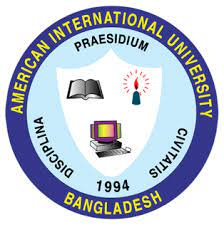
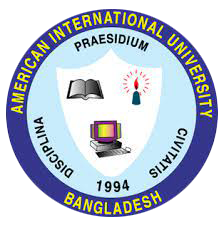
Version 1.2

diff --git a/index.html b/index.html
@@ -17,10 +17,13 @@
     <link rel="stylesheet" href="vendor/font-awesome_5.15.1_css_all.min.css">
     <!-- Custom CSS -->
     <link rel="stylesheet" href="css/style.css">
+    <!-- Scroll Reveal -->
     <script src="vendor/unpkg.com_scrollreveal@4.0.9_dist_scrollreveal.js"></script>
+    <!-- Google Recaptcha -->
+    <script src="https://www.google.com/recaptcha/api.js" async defer></script>
 </head>
 
-<body onload="generateCaptcha();">
+<body>
     <!-- Container with a specific width -->
     <div class="container">
 
@@ -68,7 +71,8 @@
                         <h3 class="scroll-reveal">Hello, It's me,</h3>
                         <h1 class="scroll-reveal"><span>Showyeab Ahmed</span></h1>
                         <h3 class="scroll-reveal">I'm a <span class="auto"></span></h3>
-                        <p class="scroll-reveal">I've had a profound passion for technology from the very beginning, which drove me to
+                        <p class="scroll-reveal">I've had a profound passion for technology from the very beginning,
+                            which drove me to
                             successfully earn my B.Sc. in Computer Science and Engineering from American International
                             University Bangladesh. Over the course of my professional journey, I've actively engaged in
                             various projects to refine and enhance my existing skill set. Moreover, I consistently seek
@@ -332,7 +336,8 @@
                         <img class="project-img scroll-reveal" src="media/digiCVProject.png" alt="Project 1">
                         <div class="project-text scroll-reveal">
                             <h4 class="scroll-reveal">DigiCV</h4>
-                            <p class="scroll-reveal">This project incorporates clean architecture, ASP.NET, worker services, and various other
+                            <p class="scroll-reveal">This project incorporates clean architecture, ASP.NET, worker
+                                services, and various other
                                 technologies.</p>
                             <a href="#" class="project-button scroll-reveal" target="_blank">View</a>
                         </div>
@@ -342,7 +347,8 @@
                         <img class="project-img scroll-reveal" src="media/bookishProject.png" alt="Project 2">
                         <div class="project-text scroll-reveal">
                             <h4 class="scroll-reveal">Bookish</h4>
-                            <p class="scroll-reveal">This project was undertaken at university, and it involved the use of the .NET Framework.
+                            <p class="scroll-reveal">This project was undertaken at university, and it involved the use
+                                of the .NET Framework.
                             </p>
                             <a href="https://github.com/msashoyeb/Bookish" class="project-button scroll-reveal"
                                 target="_blank">View</a>
@@ -352,10 +358,11 @@
                         <img class="project-img scroll-reveal" src="media/rentcarProject.png" alt="Project 3">
                         <div class="project-text scroll-reveal">
                             <h4 class="scroll-reveal">Vehical Rental Application</h4>
-                            <p class="scroll-reveal">This project was also undertaken at university, and it involved the use of PHP, Ajax,
+                            <p class="scroll-reveal">This project was also undertaken at university, and it involved the
+                                use of PHP, Ajax,
                                 JQuery, Json, XML.</p>
-                            <a href="https://github.com/msashoyeb/Vehicle-Rental-Application-" class="project-button scroll-reveal"
-                                target="_blank">View</a>
+                            <a href="https://github.com/msashoyeb/Vehicle-Rental-Application-"
+                                class="project-button scroll-reveal" target="_blank">View</a>
                         </div>
                     </div>
                     <!-- Add more project boxes as needed -->
@@ -369,7 +376,8 @@
                 <div class="section-header scroll-reveal">Contact Me</div>
                 <div class="row">
                     <div class="col-md-6">
-                        <form class="contact-form" name="submit-to-google-sheet">
+                        <form id="myForm" class="contact-form" name="submit-to-google-sheet"
+                            onsubmit="return checkRecaptcha()">
                             <div class="form-group scroll-reveal">
                                 <label for="name">Name</label>
                                 <input type="text" id="name" name="Name" placeholder="Your Name" required>
@@ -385,27 +393,19 @@
                             </div>
                             <div class="form-group scroll-reveal">
                                 <div class="form-group-captcha">
-                                    <div class="row">
-                                        <div class="col-md-6 col-sm-12 mb-3">
-                                            <input type="text" id="textbox1" placeholder="Enter Captcha"
-                                                class="form-control">
-                                        </div>
-                                        <div class="col-md-3 col-sm-6 mb-3">
-                                            <input type="text" id="textbox2" readonly>
-                                        </div>
-                                        <div class="col-md-3 col-sm-6">
-                                            <i id="reloadIcon" class="fas fa-sync-alt reload-icon"
-                                                onclick="rotateAndReload();"></i>
-                                        </div>
+                                    <div class="g-recaptcha" data-sitekey="6Ldzb4MoAAAAAA1kchMnamV9sPV6iuc4fIJlx3up">
                                     </div>
                                 </div>
                             </div>
                             <div class="submit-button scroll-reveal">
-                                <button class="btn btn-border" id="submitBtn" type="submit" disabled>Submit</button>
+                                <button class="btn btn-border" id="submitBtn" type="submit">Submit</button>
                             </div>
                         </form>
-                        <p id="countdown_msg" style="text-align: center;"></p>
-                        <p id="contact_msg" style="text-align: center;"></p>
+                        <br />
+                        <div style="text-align: center;">
+                            <p id="countdown_msg"></p>
+                            <p id="contact_msg"></p>
+                        </div>
                     </div>
                     <div class="col-md-6 section-image">
                         <!-- <img src="https://via.placeholder.com/400x300" alt="Contact Image"> -->
@@ -439,7 +439,6 @@
     <script src="js/scrollProgress.js"></script>
     <script src="js/autoTyped.js"></script>
     <script src="js/contactMe.js"></script>
-    <script src="js/captchaGenerator.js"></script>
     <script src="js/rotateIcon.js"></script>
     <script src="js/ScrollReveal.js"></script>
 </body>

diff --git a/js/contactMe.js b/js/contactMe.js
@@ -1,56 +1,65 @@
-const scriptURL =
-  "https://script.google.com/macros/s/AKfycbwMUiff2KMH0IKnamLhJIK25dkDW55D4HNZPvXNQJza_fhAfMrpndjfUig3aZ-cH0PN3w/exec";
-const form = document.forms["submit-to-google-sheet"];
-const msg = document.getElementById("contact_msg");
-const countdownMsg = document.getElementById("countdown_msg");
+const form = document.getElementById("myForm");
 
 form.addEventListener("submit", (e) => {
   e.preventDefault();
+  // Get the reCAPTCHA response token
+  const recaptchaResponse = grecaptcha.getResponse();
 
-  // Disable the submit button while the countdown is active
-  var myButton = document.getElementById("submitBtn");
-  myButton.disabled = true;
+  if (recaptchaResponse.length !== 0) {
+    const scriptURL =
+      "https://script.google.com/macros/s/AKfycbwMUiff2KMH0IKnamLhJIK25dkDW55D4HNZPvXNQJza_fhAfMrpndjfUig3aZ-cH0PN3w/exec";
+    const form = document.forms["submit-to-google-sheet"];
+    const msg = document.getElementById("contact_msg");
+    const countdownMsg = document.getElementById("countdown_msg");
+    // Start the countdown timer
+    let countdown = 2;
+    countdownMsg.textContent = `Message sending in ${countdown} seconds...`;
 
-  // Start the countdown timer
-  let countdown = 2;
-  countdownMsg.textContent = `Redirecting in ${countdown} seconds`;
+    const countdownInterval = setInterval(() => {
+      countdown -= 1;
+      if (countdown <= 1)
+        countdownMsg.textContent = `Message sending in ${countdown} second...`;
+      else
+        countdownMsg.textContent = `Message sending in ${countdown} seconds...`;
+      if (countdown === 0) {
+        clearInterval(countdownInterval);
 
-  const countdownInterval = setInterval(() => {
-    countdown -= 1;
-    countdownMsg.textContent = `Redirecting in ${countdown} seconds`;
-    if (countdown === 0) {
+        // Submit the form
+        fetch(scriptURL, { method: "POST", body: new FormData(form) })
+          .then((response) => {
+            msg.textContent = "Message sent successfully.";
+            msg.style.color = "green";
+            setTimeout(function () {
+              msg.textContent = "";
+            }, 5000);
+
+            // Reset the form and enable the submit button
+            form.reset();
+            grecaptcha.reset();
+            countdownMsg.textContent = "";
+          })
+          .catch((error) => {
+            msg.textContent = "Message failed to send!";
+            msg.style.color = "red";
+            setTimeout(function () {
+              msg.textContent = "";
+            }, 5000);
+            countdownMsg.textContent = "";
+          });
+      }
+    }, 1000);
+
+    // Reset the countdown if the form is reset
+    form.addEventListener("reset", () => {
       clearInterval(countdownInterval);
-
-      // Submit the form
-      fetch(scriptURL, { method: "POST", body: new FormData(form) })
-        .then((response) => {
-          msg.textContent = "Message successfully sent.";
-          msg.style.color = "green";
-          setTimeout(function () {
-            msg.textContent = "";
-          }, 5000);
-
-          // Reset the form and enable the submit button
-          form.reset();
-          myButton.disabled = false;
-          countdownMsg.textContent = "";
-        })
-        .catch((error) => {
-          msg.textContent = "The message could not be sent!";
-          msg.style.color = "red";
-          setTimeout(function () {
-            msg.textContent = "";
-          }, 5000);
-          myButton.disabled = false;
-          countdownMsg.textContent = "";
-        });
-    }
-  }, 1000);
-
-  // Reset the countdown if the form is reset
-  form.addEventListener("reset", () => {
-    clearInterval(countdownInterval);
-    countdownMsg.textContent = "";
-    myButton.disabled = false;
-  });
+      countdownMsg.textContent = "";
+    });
+  } else {
+    const msg = document.getElementById("contact_msg");
+    msg.textContent = "The captcha wasn't entered correctly!";
+    msg.style.color = "red";
+    setTimeout(function () {
+      msg.textContent = "";
+    }, 5000);
+  }
 });

diff --git a/css/style.css b/css/style.css
@@ -379,22 +379,12 @@ body {
   align-items: center;
 }
 
-#textbox2 {
-  font-family: Arial, sans-serif;
-  background-color: #b4b3b3;
-  color: #000000;
-  border: none;
-  text-align: center;
-  font-style: italic;
+.g-recaptcha {
+  transform: scale(0.8); /* Adjust the scale factor as needed */
+  transform-origin: 0 0;
 }
 
-/* Style the reload icon (adjust the icon class as needed) */
-.reload-icon {
-  margin-top: 10px;
-  font-size: 20px;
-  cursor: pointer;
-  transition: transform 0.5s ease;
-}
+countdown_msg
 
 .contact-gif {
   margin-top: 60px;
@@ -415,21 +405,15 @@ body {
   .section-image {
     margin-top: 20px;
   }
-  #textbox1 {
-    margin-bottom: 10px;
-  }
-  #textbox2 {
-    font-family: Arial, sans-serif;
-    background-color: #b4b3b3;
-    color: #000000;
-    border: none;
-    text-align: center;
-    font-style: italic;
-  }
   .contact-gif {
     margin-top: -10px;
     width: 300px;
     height: 200px;
+  }
+  .form-group-captcha{
+    display: flex;
+    justify-content: center;
+    align-items: center;
   }
 }
 /* ---------------------------------- Footer -----------------------------------------*/

diff --git a/README.md b/README.md
@@ -1,3 +1,5 @@
 Version 1.0 -> Project upload
 
 Version 1.1 -> Scroll reveal added
+
+Version 1.2 -> Google Recaptcha added, Institute picture round croped
